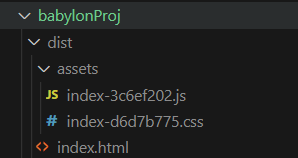
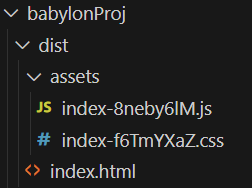
update
working

diff --git a/Block_3/section_1e_node/firstBabylon.md b/Block_3/section_1e_node/firstBabylon.md
@@ -231,7 +231,7 @@ If you encounter EOI error -5 at any point this means that the container is no l
 
 Don't change the contents from the file explorer while a container is running.
 
-It is easy to come back to local editing by CTL shift P and choosing Dev Containers: reopen file locally.
+It is easy to come back to local editing by CTL shift P and choosing Dev Containers: reopen file locally. (This can sometinmes clear some typescript errors which have been fixed but still appearn highlighted red.)
 
 If you see these errors.  Close and destroy the container and restart the PC.
 
@@ -268,6 +268,7 @@ Typescript demands stricter syntax than javaScript, that is one way in which it 
 
 You must ensure that all the elements added to the variable that are included in the interface.  If you decide to add a new shape that must be in the interface as well.  However the use of ? means optional so if you decide to remove the box the interface will not complain that it is missing.
 
+**babylonProj/src/createStartscene.ts**
 ```javascript
  export default function createStartScene(engine: Engine) {
     interface SceneData {
@@ -317,16 +318,17 @@ Issue the build command.
 > testproj@0.0.0 build
 > tsc && vite build
 
-✓ 1179 modules transformed.
-dist/index.html                     0.30 kB │ gzip:   0.22 kB
-dist/assets/index-d6d7b775.css      0.10 kB │ gzip:   0.10 kB
-dist/assets/index-3c6ef202.js   3,610.89 kB │ gzip: 836.26 kB
+vite v5.3.1 building for production...
+✓ 1696 modules transformed.
+dist/index.html                      0.31 kB │ gzip:     0.22 kB
+dist/assets/index-f6TmYXaZ.css       0.10 kB │ gzip:     0.10 kB
+dist/assets/index-8neby6lM.js   10,179.60 kB │ gzip: 2,473.87 kB
 
-(!) Some chunks are larger than 500 kBs after minification. Consider:
+(!) Some chunks are larger than 500 kB after minification. Consider:
 - Using dynamic import() to code-split the application
 - Use build.rollupOptions.output.manualChunks to improve chunking: https://rollupjs.org/configuration-options/#output-manualchunks
 - Adjust chunk size limit for this warning via build.chunkSizeWarningLimit.
-✓ built in 41.88s
+✓ built in 53.98s
 ```
 
 There are some configuration files which could be optimised but the build has worked and can be seen in the dist folder.  Before you can uise this you will need to refresh VScodes view of the folder structure.
@@ -337,7 +339,7 @@ The files in the dist folder:
 
 ![dist](dist.png)
 
-can be run by 
+an be run by 
 
 >npm run preview
 
@@ -349,7 +351,9 @@ The files in the dist folder can now we copied and placed on a web server or int
 
 You don't really need a separate testing server as you have one as live server within VScode.
 
-So opening a separate window.
+In vscode us ctrl shift P to reopen the folder locally.  The container is now closed.
+
+So opening just the dist folder in a separate window.
 
 ![testing server](testingServer.png)
 

diff --git a/Block_3/section_1d_node/devEnv.md b/Block_3/section_1d_node/devEnv.md
@@ -334,7 +334,7 @@ Within the testProj folder is a new package.json file which includes the names o
 }
 ```
 
-Due to changes in the default security settings it is now necessary to add --host to the dev script manually thus:
+Due to changes in the default security settings it is now necessary to add --host to the dev and preview scripts manually thus:
 ```json
 {
   "name": "testproj",
@@ -344,7 +344,7 @@ Due to changes in the default security settings it is now necessary to add --hos
   "scripts": {
     "dev": "vite --host",
     "build": "tsc && vite build",
-    "preview": "vite preview"
+    "preview": "vite preview --host"
   },
   "devDependencies": {
     "typescript": "^5.2.2",
